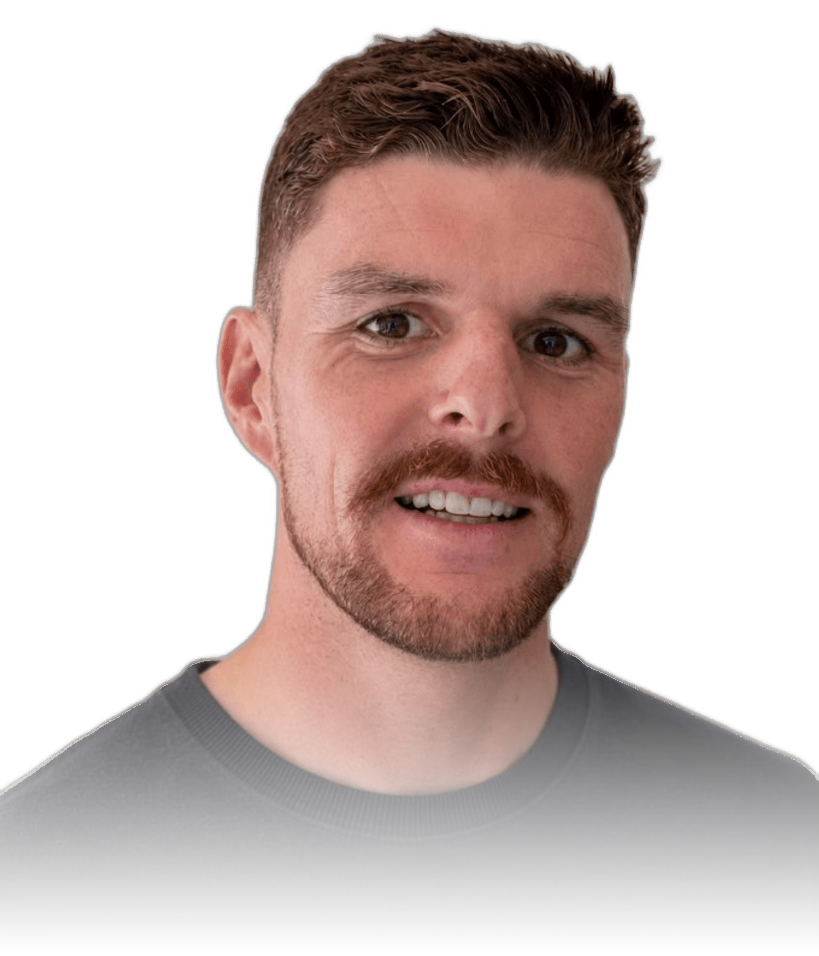
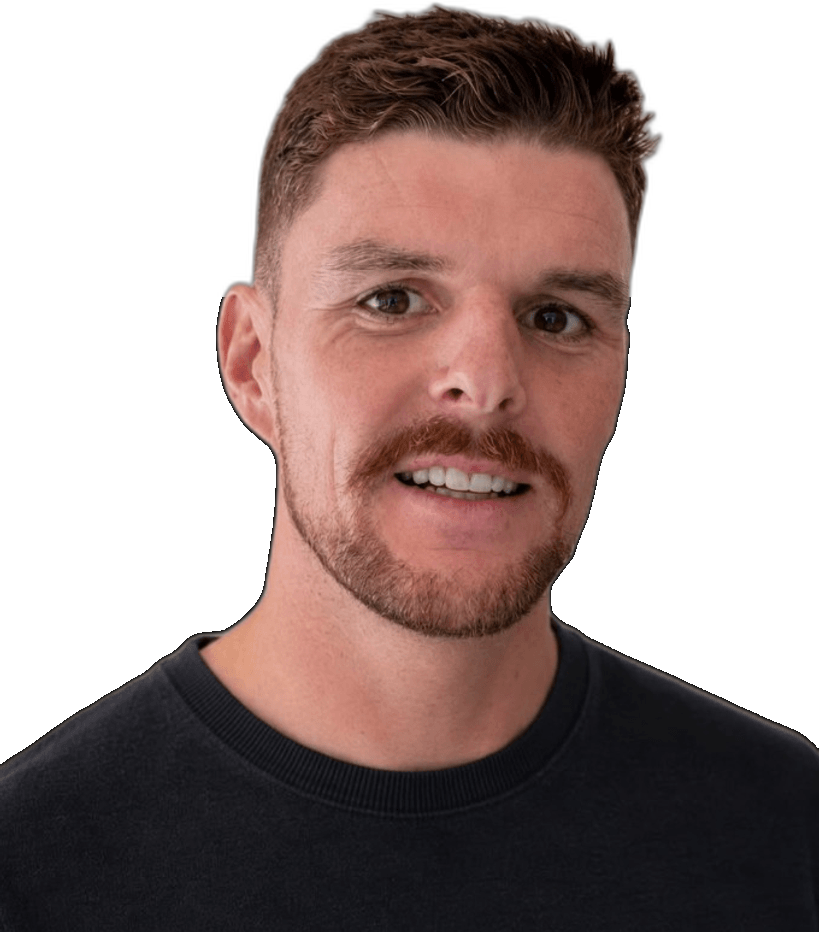
Fix About portrait alignment and remove the sweater fade.
Center the cutout with the copy, enlarge it, and keep a hard defined shirt edge instead of the bottom blur.

diff --git a/src/styles/global.css b/src/styles/global.css
@@ -3052,38 +3052,23 @@ html[data-theme='dark'] .border-border {
   display: grid;
   grid-template-columns: minmax(16rem, 0.95fr) minmax(22rem, 1.05fr);
   gap: clamp(1.5rem, 5vw, 4.5rem);
-  align-items: end;
+  align-items: center;
 }
 
 .about-v2__photo {
   margin: 0;
-  max-width: 20rem;
+  max-width: 28rem;
   width: 100%;
-  align-self: end;
+  align-self: center;
 }
 
 .about-v2__frame {
   position: relative;
-  overflow: hidden;
+  overflow: visible;
   border-radius: 0;
   aspect-ratio: auto;
   background: transparent;
-}
-
-.about-v2__frame::after {
-  content: '';
-  position: absolute;
-  left: 0;
-  right: 0;
-  bottom: 0;
-  height: 28%;
-  pointer-events: none;
-  background: linear-gradient(
-    180deg,
-    rgba(247, 246, 241, 0) 0%,
-    rgba(247, 246, 241, 0.55) 45%,
-    rgba(247, 246, 241, 0.96) 100%
-  );
+  line-height: 0;
 }
 
 .about-v2__photo img {
@@ -3091,8 +3076,7 @@ html[data-theme='dark'] .border-border {
   height: auto;
   display: block;
   object-fit: contain;
-  object-position: center bottom;
-  filter: drop-shadow(0 18px 28px rgba(48, 47, 43, 0.12));
+  object-position: center center;
 }
 
 .about-v2__photo figcaption {
@@ -3239,7 +3223,7 @@ html[data-theme='dark'] .border-border {
   }
 
   .about-v2__photo {
-    max-width: 18rem;
+    max-width: 22rem;
   }
 
   .about-v2__principle-list article {